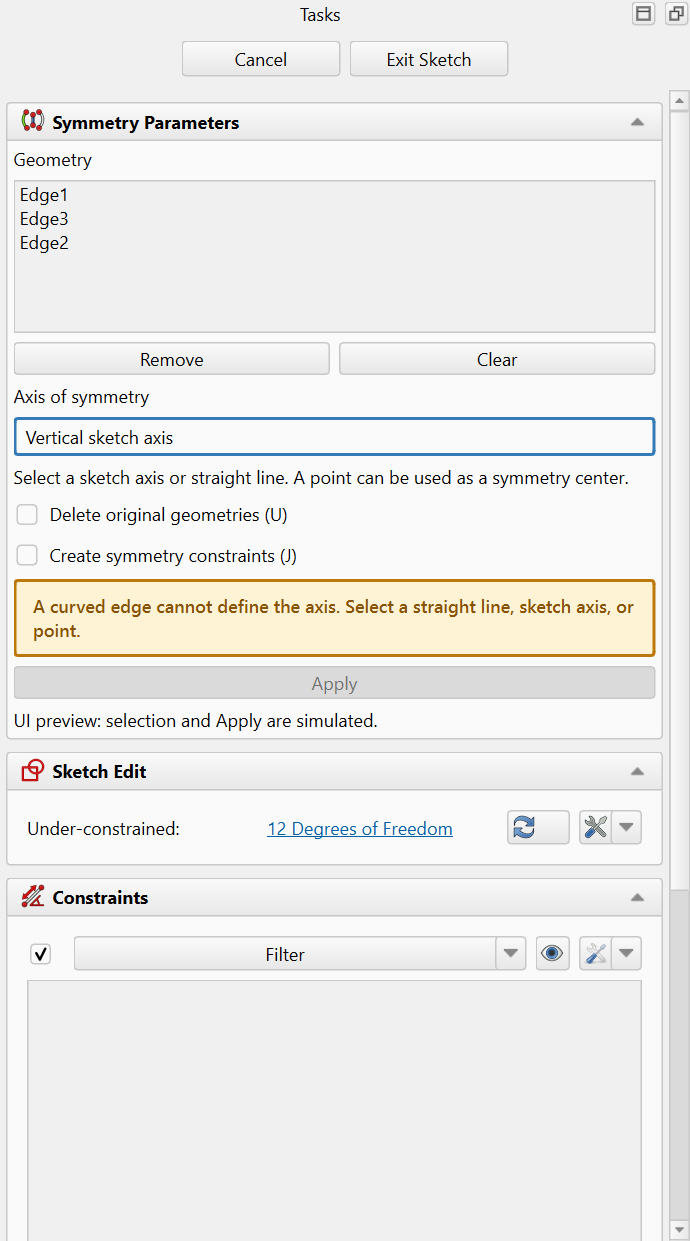
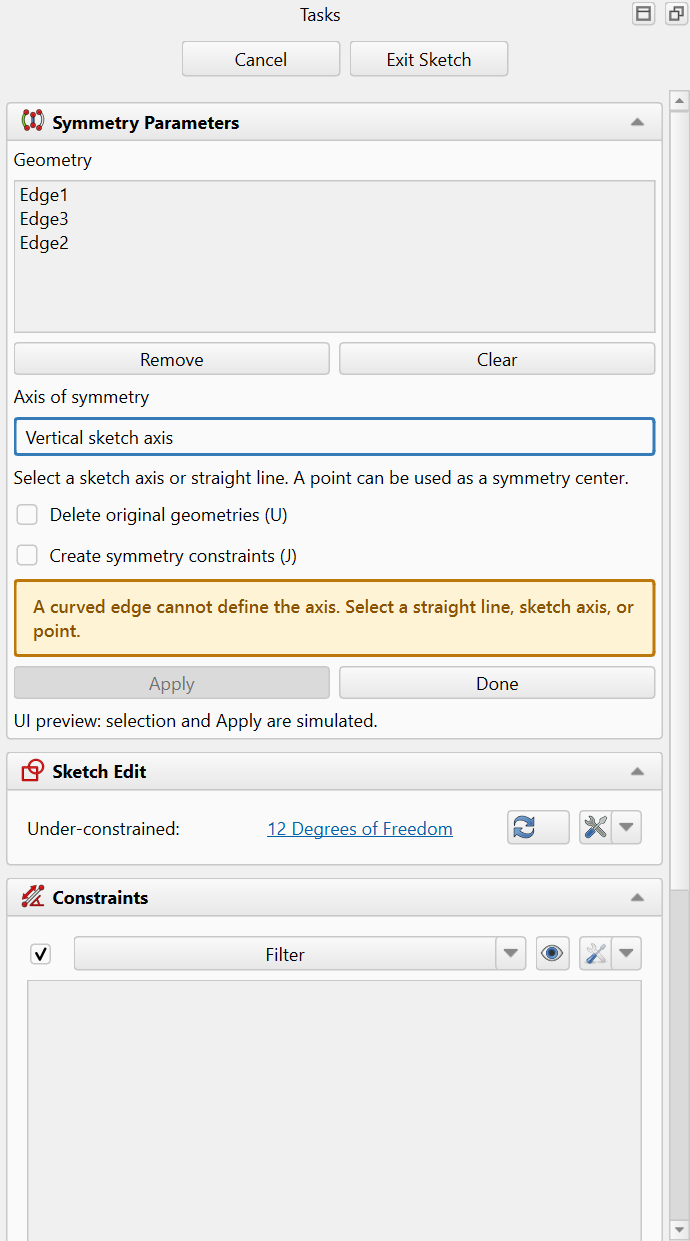
Clarify Apply and Done in symmetry task preview

Changed region(s): [[0.4565, 0.5205, 0.9435, 0.5818], [0.2435, 0.5512, 0.2739, 0.5818]]

diff --git a/ai-instructions/evidence/sketch-symmetry-preview-20261123/symmetry_ui.py b/ai-instructions/evidence/sketch-symmetry-preview-20261123/symmetry_ui.py
@@ -24,7 +24,9 @@ class SymmetryPanel(QtWidgets.QWidget):
         self.delete.toggled.connect(lambda on:self.constraints.setChecked(False) if on else None)
         self.constraints.toggled.connect(lambda on:self.delete.setChecked(False) if on else None)
         self.status=TaskStatus('Select geometry, then choose the axis.');layout.addWidget(self.status)
-        self.apply=QtWidgets.QPushButton('Apply');self.apply.clicked.connect(self.apply_preview);layout.addWidget(self.apply)
+        self.apply=QtWidgets.QPushButton('Apply');self.apply.clicked.connect(self.apply_preview)
+        self.done=QtWidgets.QPushButton('Done')
+        row=QtWidgets.QHBoxLayout();row.addWidget(self.apply);row.addWidget(self.done);layout.addLayout(row)
         footer=QtWidgets.QLabel('UI preview: selection and Apply are simulated.');footer.setWordWrap(True);layout.addWidget(footer)
         self.sync()
 

diff --git a/ai-instructions/evidence/sketch-symmetry-preview-20261123/README.md b/ai-instructions/evidence/sketch-symmetry-preview-20261123/README.md
@@ -1,7 +1,7 @@
 # Sketcher symmetry task preview - November 23, 2026
 
 Owner requests a task-panel workflow for creating symmetric sketch geometry with
-a geometry list, a single-line symmetry-axis field and an Apply button.
+a geometry list, a single-line symmetry-axis field and adjacent Apply/Done buttons.
 
 Current native Sketcher_Symmetry (Mirror) requires geometry preselection and uses
 the viewport axis/point pick to commit. Its tool panel exposes Delete original
@@ -18,9 +18,10 @@ geometries and Create symmetry constraints. Proposed workflow:
 - Apply through native addSymmetric and its transaction/Undo behavior. Keep existing
   Delete original geometries and Create symmetry constraints options, defaults and
   mutual exclusion. No automatic dimensions are introduced.
-- Proposed Apply stays in symmetry, clears the geometry list and retains the axis.
-  The owner was asked whether Apply should instead finish the action; no response
-  had arrived when this preview was captured. This behavior remains proposed.
+- Owner clarified: Apply stays in symmetry, clears the geometry list and retains
+  the axis for the next set. Done closes symmetry and returns to sketch editing.
+  Apply alone creates geometry; Done discards pending preview without creating
+  another copy. Previously applied sets remain.
 - Cancel/Escape discards only uncommitted picks/preview and keeps sketch editing;
   Exit Sketch retains its existing behavior. Preserve native geometry/constraints,
   original geometry by default, coordinate graphics and unrelated sketch controls.
@@ -29,20 +30,20 @@ geometries and Create symmetry constraints. Proposed workflow:
 
 [Current native task](baseline.png), [proposed task ready to Apply](proposed.png),
 [empty input](empty.png), [invalid axis feedback](invalid-axis.png), and
-[proposed post-Apply state](after-apply.png).
+[post-Apply state](after-apply.png), and [Done returns to sketch editing](after-done.png).
 
 The prototype replaces the symmetry tool widget in an isolated actual FreeCAD
 sketch editor. Its list/axis and Apply interactions are simulated; no mirrored
 geometry is committed. Native fixture geometry count stays unchanged in baseline
 and candidate. Checks confirm empty/invalid disabling, duplicate-add suppression,
-Shift removal, recovery and the proposed post-Apply reset. These are UI checks,
+Shift removal, recovery, post-Apply reset and Done returning to sketch editing without a commit. These are UI checks,
 not proof of working command integration, picking, geometry, Undo or persistence.
 No production source or installed payload changed. The simulation footer is preview
 annotation, not a proposed product control.
 
-Companion session f6f16a2395cf; adapter baseline
+Companion session c5ec4798c9a1 supersedes f6f16a2395cf with Apply/Done clarification; adapter baseline
 be7bf70c1f925f182d1eb8fc6c90b3109d049cb4; fingerprint
-0dcae7ba0625fed3c10fe74206ce918f681833a46861b79a79b6b8e126b663a1.
+17b71b7da4abd8b94bce4c168104489ddc0274c7a33987948ef7f8810aba37fd.
 Only symmetry_ui.py changed in candidate. Preview valid, scope violations empty.
 Owner preview approval is pending; tool approval state was not modified.
 
@@ -51,5 +52,5 @@ its task participates in native sketch tool lifecycle and Cancel/Exit behavior.
 Verify no-preselection entry, native sketch geometry IDs (including construction
 and external references), axis replacement/removal, invalid geometry recovery,
 click/Shift and chain selection, Apply-only mutation, native solver/constraints,
-repeated Apply, Undo/Redo and cancellation in both task presentations. Validation
+repeated Apply, Done with pending inputs, Undo/Redo and cancellation in both task presentations. Validation
 must use isolated profiles; preserve unrelated project.previewfirst.json.

diff --git a/ai-instructions/ui-ux-specs/TASK_PANEL.md b/ai-instructions/ui-ux-specs/TASK_PANEL.md
@@ -1358,7 +1358,8 @@ and [implementation acceptance](../evidence/feature-pick-20261123/README.md).
 Owner requests a Geometry list, single-line Axis of symmetry selection field and
 Apply for creating mirrored sketch geometry. Proposed: open without preselection,
 click/Shift collection, native axis/line/point support, highlighted invalid-input
-feedback, native existing symmetry options and Apply-only creation. Proposed Apply
-stays open, clearing geometry while retaining the axis; owner preference is pending.
+feedback, native existing symmetry options and Apply-only creation. Owner clarified:
+Apply stays open, clearing geometry while retaining the axis; adjacent Done closes
+symmetry without applying pending inputs and preserves previously applied sets.
 Cancel/Exit Sketch retain their existing roles. Implementation awaits approval of
 the [native-widget preview](../evidence/sketch-symmetry-preview-20261123/README.md).

diff --git a/ai-instructions/WORK_STATE.md b/ai-instructions/WORK_STATE.md
@@ -4,8 +4,9 @@
 
 Owner requests Geometry list, single-line symmetry-axis selection and Apply within
 sketch editing. Isolated native-widget prototype retains native symmetry options
-and Cancel/Exit Sketch. Proposed Apply stays open, clears geometry and keeps the
-axis; owner preference question is pending. No production or installed change.
+and Cancel/Exit Sketch. Owner clarified: Apply stays open, clears geometry and keeps
+the axis; Done closes symmetry without applying pending inputs. Revised preview
+awaits approval. No production or installed change.
 See [direct preview and scope](evidence/sketch-symmetry-preview-20261123/README.md).
 
 ## Feature click/Shift-click selection installed - November 23, 2026
